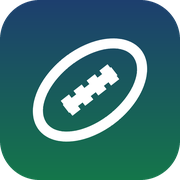
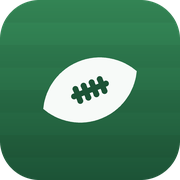
A new mark for the site
A football on a field-green tile, drawn from one set of numbers into an
SVG and every icon size. The favicon leaves out the stripes and the laces,
which at sixteen pixels only muddy it, and the Apple icon is square and
opaque because iOS puts its own mask on.

The pages now offer the SVG first, and there is a web manifest so a phone
that saves the site to its home screen has something to show. tools/icons.py
redraws the lot.

diff --git a/src/cfbroot/web/templates/index.html b/src/cfbroot/web/templates/index.html
@@ -4,9 +4,12 @@
 <meta charset="utf-8">
 <meta name="viewport" content="width=device-width, initial-scale=1">
 <!--HEAD-->
-<link rel="icon" href="/static/favicon.ico" sizes="48x48">
+<link rel="icon" href="/static/favicon.ico" sizes="16x16 32x32 48x48">
+<link rel="icon" type="image/svg+xml" href="/static/logo.svg">
 <link rel="icon" type="image/png" sizes="192x192" href="/static/icon-192.png">
 <link rel="apple-touch-icon" href="/static/apple-touch-icon.png">
+<link rel="manifest" href="/static/site.webmanifest">
+<meta name="theme-color" content="#1c5336">
 <link rel="preconnect" href="https://cdn.collegefootballdata.com">
 <link rel="stylesheet" href="/static/app.css">
 </head>
@@ -14,7 +17,7 @@
 
 <header class="topbar">
   <div class="brand">
-    <img class="mark" src="/static/icon-192.png" alt="" width="34" height="34">
+    <img class="mark" src="/static/logo.svg" alt="" width="34" height="34">
     <h1>CFB Rooting Guide</h1>
   </div>
   <div id="topmeta" class="topmeta"></div>

diff --git a/tools/icons.py b/tools/icons.py
@@ -1,0 +1,168 @@
+"""Draw the site mark: a football on a field-green tile.
+
+Run ``python tools/icons.py`` to rewrite logo.svg and every icon the pages
+ask for. Needs Pillow, which the site itself does not. The SVG and the PNGs
+come from the same numbers, so they match. A favicon is drawn without the
+stripes or the laces, which at that size only muddy it.
+"""
+import math
+import sys
+from pathlib import Path
+
+from PIL import Image, ImageDraw
+
+OUT = Path(__file__).resolve().parents[1] / "src" / "cfbroot" / "web" / "static"
+
+# Geometry, in a 64 unit square.
+R = 14.0            # corner radius
+BALL_A = 17.9       # half length
+BALL_B = 10.9       # half height
+TILT = -22.0        # degrees
+SEAM = 6.1          # half length of the seam line
+TICK = 2.3          # half height of a lace tick
+TICK_GAP = 3.1
+STROKE = 2.05
+
+TOP = (0x35, 0x8a, 0x58)
+BOTTOM = (0x1c, 0x53, 0x36)
+STRIPE = (0x00, 0x00, 0x00, 11)
+WHITE = (0xf7, 0xfa, 0xf8)
+LACE = (0x1c, 0x53, 0x36)
+
+
+def lens(a, b, steps=140):
+    """An American football outline: two circular arcs meeting at the points."""
+    r = (a * a + b * b) / (2 * b)
+    cy = r - b
+    span = math.asin(a / r)
+    pts = []
+    for i in range(steps + 1):                      # top arc, left to right
+        t = -span + 2 * span * i / steps
+        pts.append((r * math.sin(t), cy - r * math.cos(t)))
+    for i in range(steps + 1):                      # bottom arc, back again
+        t = span - 2 * span * i / steps
+        pts.append((r * math.sin(t), -cy + r * math.cos(t)))
+    return pts
+
+
+def turn(pts, deg):
+    c, s = math.cos(math.radians(deg)), math.sin(math.radians(deg))
+    return [(x * c - y * s, x * s + y * c) for x, y in pts]
+
+
+def draw(size, rounded=True):
+    """The tile at ``size`` pixels, drawn big and shrunk down.
+
+    A favicon is mostly ball: at that size the margin is wasted and the
+    stripes and laces only muddy it.
+    """
+    small = size <= 48
+    a, b = (BALL_A * 1.15, BALL_B * 1.15) if small else (BALL_A, BALL_B)
+    k = 8                                           # supersampling
+    px = size * k
+    unit = px / 64.0
+    img = Image.new("RGBA", (px, px), (0, 0, 0, 0))
+
+    field = Image.new("RGBA", (px, px))
+    d = ImageDraw.Draw(field)
+    for y in range(px):                             # top to bottom gradient
+        f = y / (px - 1)
+        d.line([(0, y), (px, y)],
+               fill=tuple(round(TOP[i] + (BOTTOM[i] - TOP[i]) * f) for i in range(3))
+               + (255,))
+    if size > 32:
+        stripes = Image.new("RGBA", (px, px), (0, 0, 0, 0))
+        ds = ImageDraw.Draw(stripes)
+        band = px / 8.0                             # the mown stripes, faintly
+        for i in range(0, 8, 2):
+            ds.rectangle([0, round(i * band), px, round((i + 1) * band)],
+                         fill=STRIPE)
+        field = Image.alpha_composite(field, stripes)
+
+    mask = Image.new("L", (px, px), 0)
+    md = ImageDraw.Draw(mask)
+    if rounded:
+        md.rounded_rectangle([0, 0, px - 1, px - 1], radius=R * unit, fill=255)
+    else:
+        md.rectangle([0, 0, px - 1, px - 1], fill=255)
+    img.paste(field, (0, 0), mask)
+
+    d = ImageDraw.Draw(img)
+    mid = px / 2.0
+
+    def place(pts):
+        return [(mid + x * unit, mid + y * unit) for x, y in pts]
+
+    d.polygon(place(turn(lens(a, b), TILT)), fill=WHITE + (255,))
+
+    def capsule(x1, y1, x2, y2, width):
+        (ax, ay), (bx, by) = place(turn([(x1, y1), (x2, y2)], TILT))
+        w = width * unit
+        d.line([(ax, ay), (bx, by)], fill=LACE + (255,), width=round(w))
+        for cx, cy in ((ax, ay), (bx, by)):
+            d.ellipse([cx - w / 2, cy - w / 2, cx + w / 2, cy + w / 2],
+                      fill=LACE + (255,))
+
+    if size > 40:
+        capsule(-SEAM, 0, SEAM, 0, STROKE)
+        for i in (-1.5, -0.5, 0.5, 1.5):
+            x = i * TICK_GAP
+            capsule(x, -TICK, x, TICK, STROKE)
+
+    return img.resize((size, size), Image.LANCZOS)
+
+
+SVG = f"""<svg xmlns="http://www.w3.org/2000/svg" viewBox="0 0 64 64" role="img"
+     aria-label="CFB Rooting Guide">
+  <defs>
+    <linearGradient id="turf" x1="0" y1="0" x2="0" y2="1">
+      <stop offset="0" stop-color="#{TOP[0]:02x}{TOP[1]:02x}{TOP[2]:02x}"/>
+      <stop offset="1" stop-color="#{BOTTOM[0]:02x}{BOTTOM[1]:02x}{BOTTOM[2]:02x}"/>
+    </linearGradient>
+    <clipPath id="tile"><rect width="64" height="64" rx="{R:g}"/></clipPath>
+  </defs>
+  <g clip-path="url(#tile)">
+    <rect width="64" height="64" fill="url(#turf)"/>
+    <g fill="#000" opacity="{STRIPE[3] / 255:.3f}">
+      <rect y="0" width="64" height="8"/><rect y="16" width="64" height="8"/>
+      <rect y="32" width="64" height="8"/><rect y="48" width="64" height="8"/>
+    </g>
+  </g>
+  <g transform="translate(32 32) rotate({TILT:g})">
+    <path d="{{ball}}" fill="#{WHITE[0]:02x}{WHITE[1]:02x}{WHITE[2]:02x}"/>
+    <g stroke="#{LACE[0]:02x}{LACE[1]:02x}{LACE[2]:02x}" stroke-width="{STROKE:g}"
+       stroke-linecap="round">
+      <line x1="{-SEAM:g}" y1="0" x2="{SEAM:g}" y2="0"/>
+      <line x1="{-1.5 * TICK_GAP:g}" y1="{-TICK:g}" x2="{-1.5 * TICK_GAP:g}" y2="{TICK:g}"/>
+      <line x1="{-0.5 * TICK_GAP:g}" y1="{-TICK:g}" x2="{-0.5 * TICK_GAP:g}" y2="{TICK:g}"/>
+      <line x1="{0.5 * TICK_GAP:g}" y1="{-TICK:g}" x2="{0.5 * TICK_GAP:g}" y2="{TICK:g}"/>
+      <line x1="{1.5 * TICK_GAP:g}" y1="{-TICK:g}" x2="{1.5 * TICK_GAP:g}" y2="{TICK:g}"/>
+    </g>
+  </g>
+</svg>
+"""
+
+
+def ball_path():
+    r = (BALL_A ** 2 + BALL_B ** 2) / (2 * BALL_B)
+    return (f"M {-BALL_A:g} 0 A {r:.3f} {r:.3f} 0 0 1 {BALL_A:g} 0 "
+            f"A {r:.3f} {r:.3f} 0 0 1 {-BALL_A:g} 0 Z")
+
+
+def main():
+    where = Path(sys.argv[1]) if len(sys.argv) > 1 else OUT
+    where.mkdir(parents=True, exist_ok=True)
+    (where / "logo.svg").write_text(SVG.replace("{ball}", ball_path()),
+                                    encoding="utf-8")
+    for size in (32, 48, 96, 180, 192, 512):
+        draw(size).save(where / f"icon-{size}.png")
+    # iOS puts its own mask on, so that one is square and opaque.
+    draw(180, rounded=False).convert("RGB").save(where / "apple-touch-icon.png")
+    small = [draw(s) for s in (16, 32)]
+    draw(48).save(where / "favicon.ico", sizes=[(16, 16), (32, 32), (48, 48)],
+                  append_images=small)
+    print("wrote", where)
+
+
+if __name__ == "__main__":
+    main()
